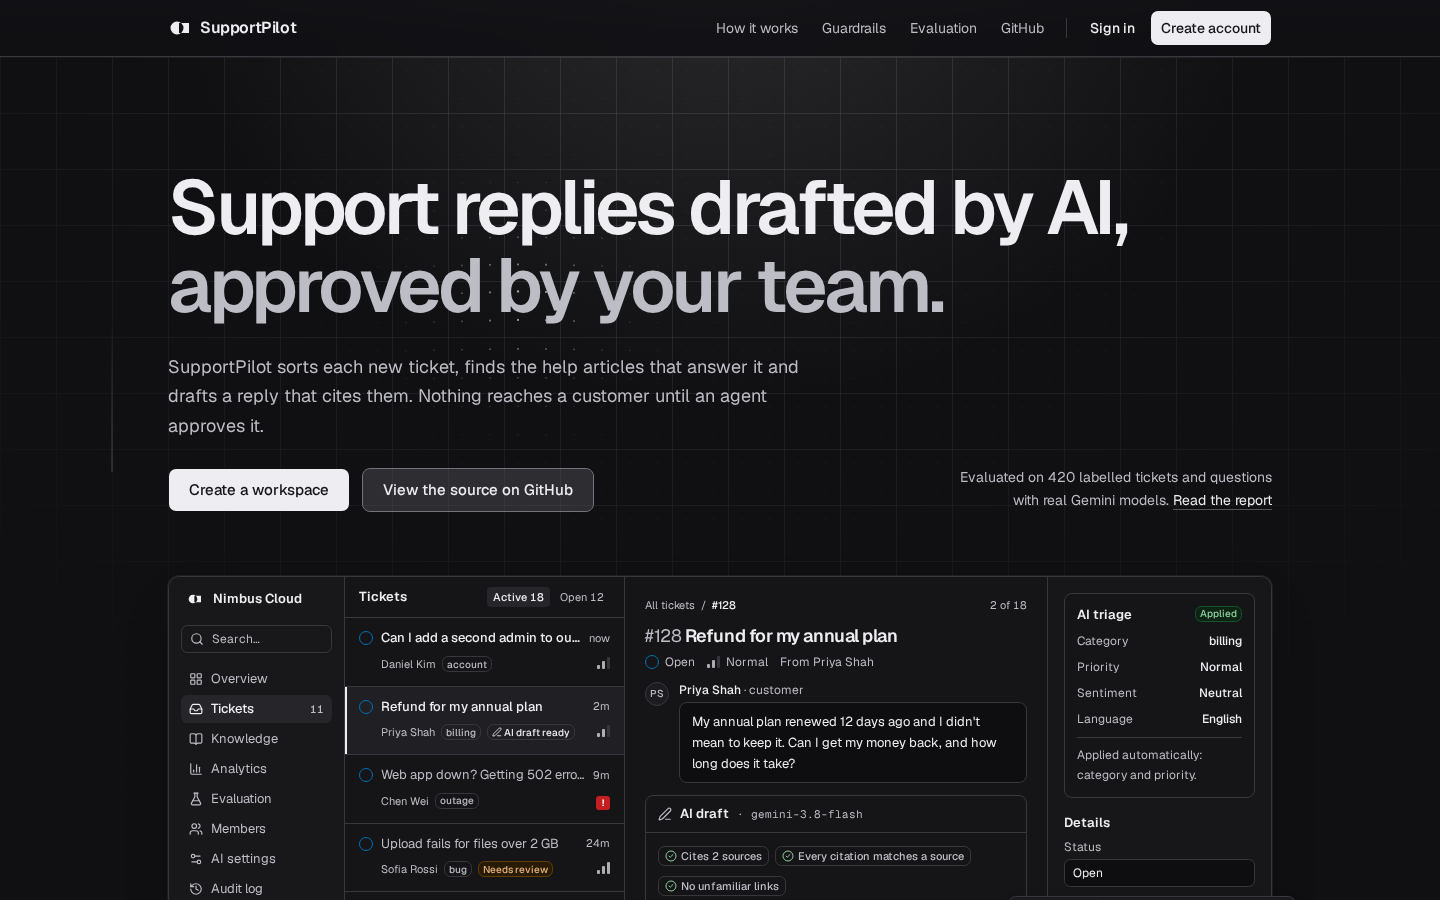
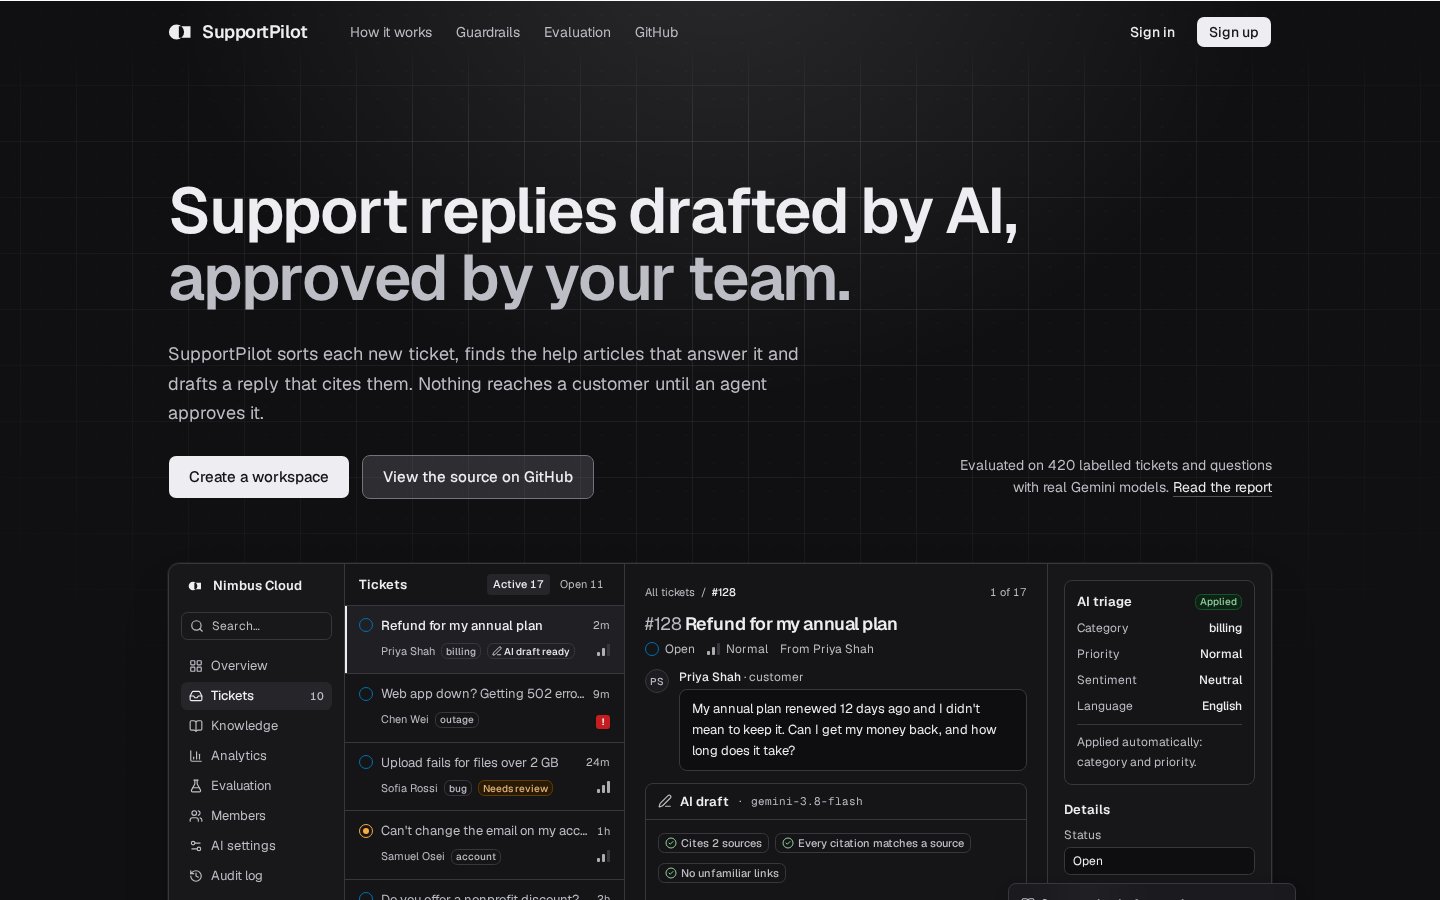
docs(screenshots): fresh captures from the live demo with real Gemini
19 screenshots retaken on the live site on 2026-10-28 (desktop light and dark, phone),
including a real portal ticket triaged and drafted by Gemini. A new shot shows triage
left for review (confidence 90% < 95%); the mock auto-applied shot is removed. The
evaluation dashboard shots stay: the live database holds no evaluation runs. M9 step 2.

diff --git a/README.md b/README.md
@@ -19,9 +19,9 @@ AI-assisted customer support. SupportPilot triages new tickets and drafts replie
 - **Deployed as code:** Terraform on AWS Lambda (Sydney) with Neon PostgreSQL. After CI passes, one approval releases a new version with database migrations and smoke tests; a one-click rollback was tested both ways ([infrastructure](infra/README.md)).
 - **Built with AI coding assistants, checked by tests and official docs** ([policy](CONTRIBUTING.md#ai-assisted-development-policy)).
 
-![A ticket in SupportPilot: the conversation, an AI draft citing two help articles, and the AI triage card waiting for review](docs/screenshots/app/ticket-light.png)
+![A live ticket in SupportPilot: the customer's message, an AI draft citing two help articles, and the AI triage card](docs/screenshots/app/ticket-light.png)
 
-<sub>An agent's view of a ticket. The AI draft cites two help articles, and every citation was checked against the passages the model was given. The triage card on the right was **not** applied automatically: the model's confidence (75%) is below this workspace's threshold (95%), so it waits for a person. Screenshots use the offline mock AI. Results from real Gemini models are under [Evaluation](#evaluation-real-gemini-models).</sub>
+<sub>A ticket on the live demo, 28 October 2026. Real Gemini models labelled it (how-to, high priority, 95% confident, so applied automatically) and wrote the draft. Every citation was checked against the passages the model was given. The agent still reviews it: the customer emptied the bin on their laptop, which may not be the Nimbus trash the draft talks about. Screenshots are from the live demo unless a caption says otherwise.</sub>
 
 ## Contents
 
@@ -83,21 +83,21 @@ How it runs: [ADR-0021](docs/adr/0021-aws-lambda-deployment.md) · [runbook](doc
 
 <sub>Recorded from the app with the offline mock AI (14 seconds, real timing). The page data was slowed by 0.7 s so the progress bar is visible, as it would be on a slow connection.</sub>
 
-| Agent inbox                                                        | Inbox, dark theme                                                     |
-| ------------------------------------------------------------------ | --------------------------------------------------------------------- |
-| ![Agent inbox](docs/screenshots/app/inbox-light.png)               | ![Agent inbox in the dark theme](docs/screenshots/app/inbox-dark.png) |
-| **Overview: today's requests, what needs you, recent activity**    | **Sign-in**                                                           |
-| ![Overview](docs/screenshots/app/overview-light.png)               | ![Sign-in](docs/screenshots/app/sign-in-light.png)                    |
-| **Triage applied automatically (confidence 97%)**                  | **Ticket with a cited draft, dark theme**                             |
-| ![Triage applied](docs/screenshots/app/ticket-applied-light.png)   | ![Ticket in the dark theme](docs/screenshots/app/ticket-dark.png)     |
-| **Evaluation dashboard (real Gemini run)**                         | **Usage analytics**                                                   |
-| ![Evaluation dashboard](docs/screenshots/app/evaluation-light.png) | ![Usage analytics](docs/screenshots/app/analytics-light.png)          |
-| **Knowledge base**                                                 | **AI settings and this month's usage**                                |
-| ![Knowledge base](docs/screenshots/app/knowledge-light.png)        | ![AI settings](docs/screenshots/app/settings-light.png)               |
-| **Command palette (Ctrl/⌘ K)**                                     | **Landing page**                                                      |
-| ![Command palette](docs/screenshots/app/palette-light.png)         | ![Landing page](docs/screenshots/app/landing-light.png)               |
-| **Customer support form**                                          | **Customer tracking page**                                            |
-| ![Support form](docs/screenshots/app/portal-light.png)             | ![Tracking page](docs/screenshots/app/tracking-light.png)             |
+| Agent inbox                                                                | Inbox, dark theme                                                     |
+| -------------------------------------------------------------------------- | --------------------------------------------------------------------- |
+| ![Agent inbox](docs/screenshots/app/inbox-light.png)                       | ![Agent inbox in the dark theme](docs/screenshots/app/inbox-dark.png) |
+| **Overview: today's requests, what needs you, recent activity**            | **Sign-in**                                                           |
+| ![Overview](docs/screenshots/app/overview-light.png)                       | ![Sign-in](docs/screenshots/app/sign-in-light.png)                    |
+| **Triage left for a person (confidence 90%, below 95%)**                   | **Ticket with a cited draft, dark theme**                             |
+| ![Triage waiting for review](docs/screenshots/app/ticket-review-light.png) | ![Ticket in the dark theme](docs/screenshots/app/ticket-dark.png)     |
+| **Evaluation dashboard (the real Gemini run, from a local database)**      | **Usage analytics**                                                   |
+| ![Evaluation dashboard](docs/screenshots/app/evaluation-light.png)         | ![Usage analytics](docs/screenshots/app/analytics-light.png)          |
+| **Knowledge base**                                                         | **AI settings and this month's usage**                                |
+| ![Knowledge base](docs/screenshots/app/knowledge-light.png)                | ![AI settings](docs/screenshots/app/settings-light.png)               |
+| **Command palette (Ctrl/⌘ K)**                                             | **Landing page**                                                      |
+| ![Command palette](docs/screenshots/app/palette-light.png)                 | ![Landing page](docs/screenshots/app/landing-light.png)               |
+| **Customer support form**                                                  | **Customer tracking page**                                            |
+| ![Support form](docs/screenshots/app/portal-light.png)                     | ![Tracking page](docs/screenshots/app/tracking-light.png)             |
 
 | Inbox on a phone                                          | Ticket on a phone                                           | Landing page on a phone                                       |
 | --------------------------------------------------------- | ----------------------------------------------------------- | ------------------------------------------------------------- |
